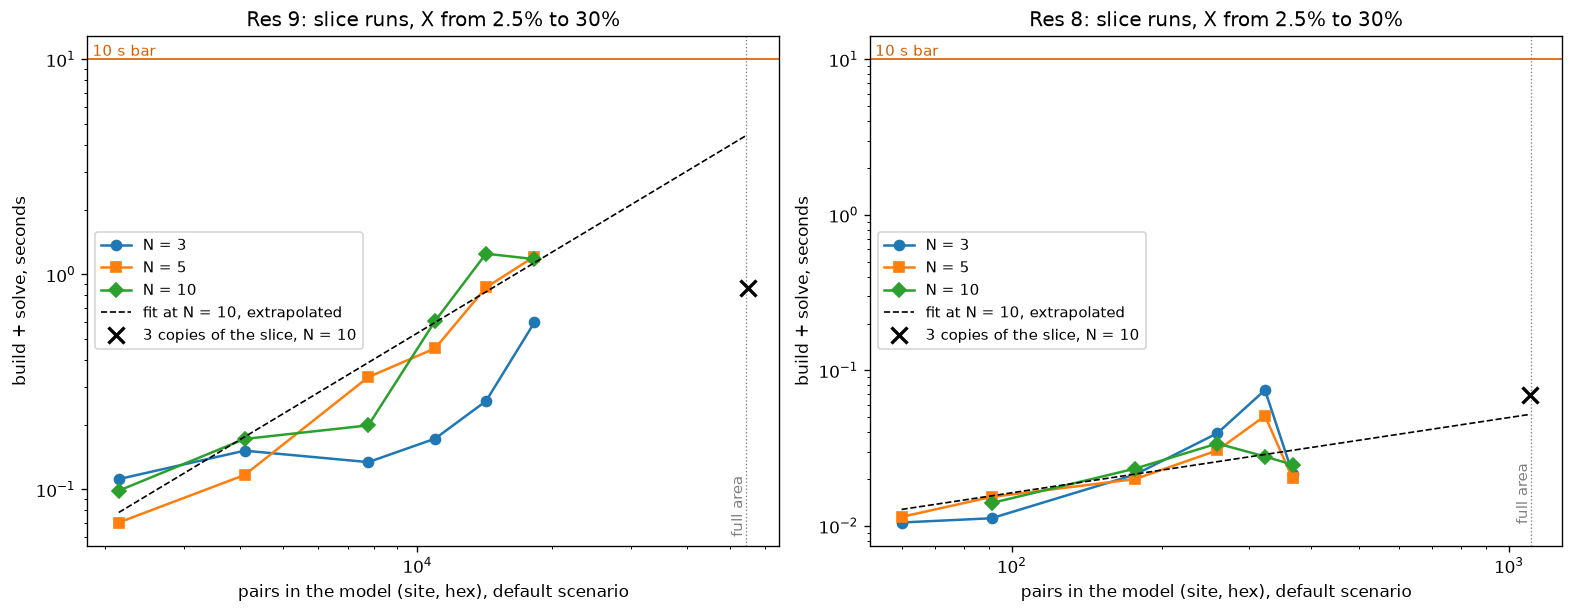
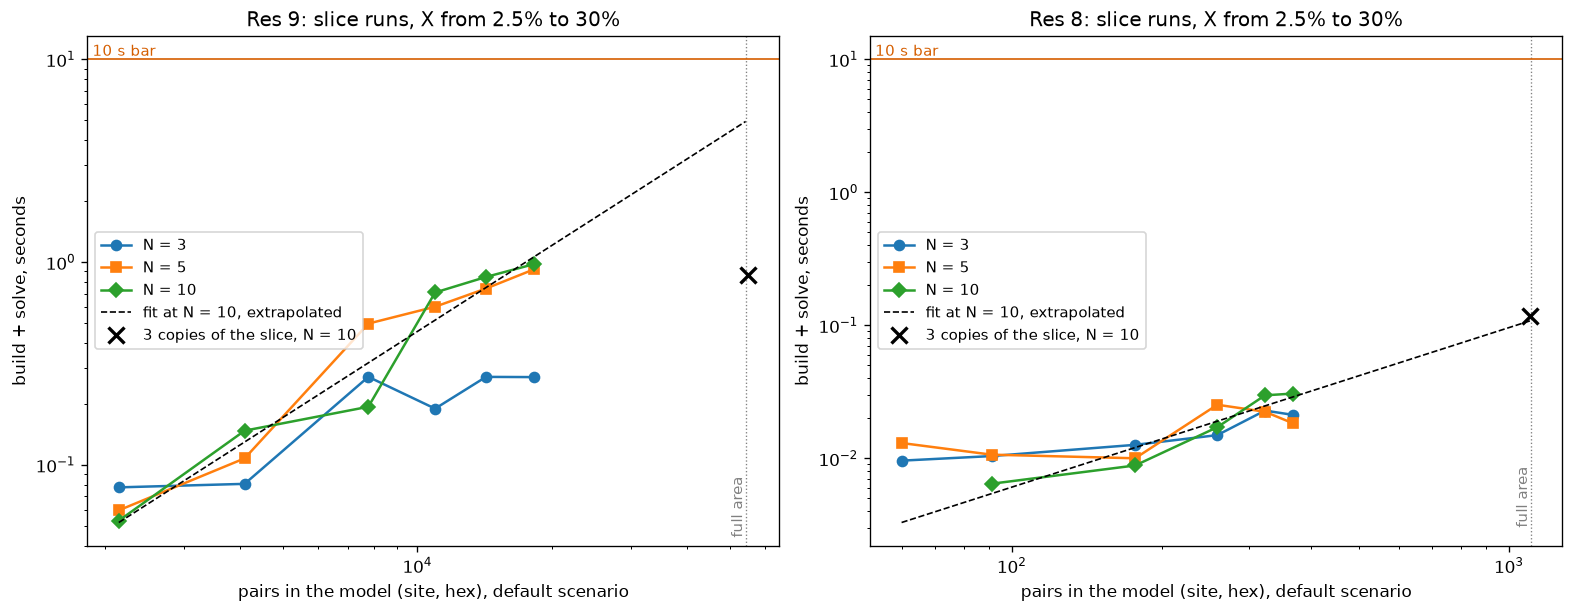
Explore: 02-plan review fixes; model equivalence checked where capacity binds (#5)
02-plan asserts that the model used (x only for sites that can reach capacity)
matches the plain model at res 8, capacity 800 (24 sites with x, both OPTIMAL at
4,181.4), and the evaluator at res 9, capacity 1,700. Capacity is marked Unverified,
since it rests on the unverified orders per store. Decision log and roadmap add the
res 8 extrapolation and that solve time grows with N; the old slice entry points at
the catchment-size correction.

diff --git a/docs/decisions.md b/docs/decisions.md
@@ -13,7 +13,7 @@ runs, on the placeholder network, at the default scenario (promise 10, multiplie
   a catchment of about 5 free-flow minutes. Res 9, full area, extrapolated from the slice: about 1.40 M table pairs
   within 17 min (17 MB in memory) and about 54 k default-scenario pairs; CP-SAT at N = 10 is extrapolated to 3.1-5.6 s
   (other runs 1.9-11.3 s; the fit is noisy) and the slice copied three times, at the full area's pair count, solved in
-  1.2 s. The ≤ 10 s bar looks reachable but is not proven until stage 1 builds the full-area table. Rules out res 8
+  1.2 s. Res 8 would take about 0.04 s. The time grows with N: three slice copies at N = 30 took 19 s. The ≤ 10 s bar looks reachable but is not proven until stage 1 builds the full-area table. Rules out res 8
   unless that measurement misses the bar even after cutting X.
 - **Candidate sites: one per hex, the top 30% of the area's hexes by Overture places count**, the hex centre snapped
   to the nearest road (ties by demand; hexes with no places never qualify). 1,458 sites in the area, 554 in the slice.
@@ -22,7 +22,8 @@ runs, on the placeholder network, at the default scenario (promise 10, multiplie
   the resolution: X = 10% reaches 96.0% with a third of the pairs (extrapolated 1.5-1.8 s).
 - **CP-SAT formulation: assignment variables only for sites whose catchment can exceed capacity.** The plain model
   (a variable per site × hex pair) stalls with the trivial bound (9-22% below the optimum after 20 s). The used model
-  has the same optimum and solves the slice to proven optimality in 0.4 s (N = 3) and 1.3 s (N = 10). At the default
+  has the same optimum (checked where capacity binds: res 8 at 800 orders a day, both models proven optimal at the same
+  value) and solves the slice to proven optimality in 0.4 s (N = 3) and 1.3 s (N = 10). At the default
   capacity no site binds (largest catchment demand 1,981 against 2,364), so the default scenario is maximum coverage.
   **Capacity that binds is slow**: at 1,000 orders a day, CP-SAT is still 38% from its bound after 20 s. The capacity
   lever's range, or a faster model for that case, needs a decision before stage 3.
@@ -43,7 +44,7 @@ runs, on the placeholder network, at the default scenario (promise 10, multiplie
 ## 2026-10-29: Explore (stage 0.5) model and slice
 
 - **Slice: about 80 km², old Gurugram (sectors 4-14, Sadar) to Golf Course Road / Sohna Road.** A
-  10-min catchment is about 17 km², so "a few km²" would make every site reach every hex and give
+  10-min catchment is about 17 km² (wrong: 4.4-6.2 km², see the results entry above), so "a few km²" would make every site reach every hex and give
   nothing to extrapolate from. Rules out a slice smaller than several catchments.
 - **Demand = households × affluence multiplier × capture share.** Households = population ÷ one
   stated household size, since capture share is per household and the brief reports households

diff --git a/CLAUDE.md b/CLAUDE.md
@@ -6,10 +6,10 @@ This file provides guidance to Claude Code (claude.ai/code) when working with co
 
 Stage 0 (setup and fetch) and 0.5 Explore (notebooks `00-demand`, `01-reach`, `02-plan` on the slice, issues
 #1-#6) done 2026-10-29: H3 res 9, candidate sites the top 30% of hexes by places count. Next is stage 1 (demand and
-reach on the full area). The code is `src/catchment/` (`area.py`, `fetch.py`, `load.py`). The repo also holds the product brief (`docs/brief.md`), the staged roadmap with "done when"
-criteria (`docs/roadmap.md`), the decision log (`docs/decisions.md`), the scope cuts
-(`docs/cuts.md`) and the data survey (`docs/data-sources.md`). Read the brief and the roadmap before
-starting any work; record new commands here.
+reach on the full area). The code is `src/catchment/` (`area.py`, `fetch.py`, `load.py`). The repo also
+holds the product brief (`docs/brief.md`), the staged roadmap with "done when" criteria (`docs/roadmap.md`), the
+decision log (`docs/decisions.md`), the scope cuts (`docs/cuts.md`) and the data survey (`docs/data-sources.md`).
+Read the brief and the roadmap before starting any work; record new commands here.
 
 ## Commands
 

diff --git a/docs/roadmap.md b/docs/roadmap.md
@@ -37,8 +37,8 @@ outputs), so it reads on GitHub; the clean version goes into the package in stag
 - **Done when:** all three notebooks run top to bottom on the slice, the hex resolution and candidate
   site rule are recorded, and the expected table size and solve time for the full area are written up.
 - **Done 2026-10-29:** H3 res 9; candidate sites are the top 30% of the area's hexes by places count (1,458).
-  Full area extrapolated to about 1.4 M table pairs (17 MB) and a CP-SAT solve of 3.1-5.6 s at N = 10, so the
-  ≤ 10 s bar looks reachable; stage 1 measures it. CP-SAT ties greedy at N = 3 on the slice and leads by 3% at
+  Full area extrapolated to about 1.4 M table pairs (17 MB) and a CP-SAT solve of 3.1-5.6 s at N = 10 (res 8:
+  0.04 s), so the ≤ 10 s bar looks reachable at res 9; stage 1 measures it. Solve time grows with N. CP-SAT ties greedy at N = 3 on the slice and leads by 3% at
   N = 10. A capacity that binds solves slowly, an open point for the capacity lever (see
   [decisions](decisions.md)).
 
